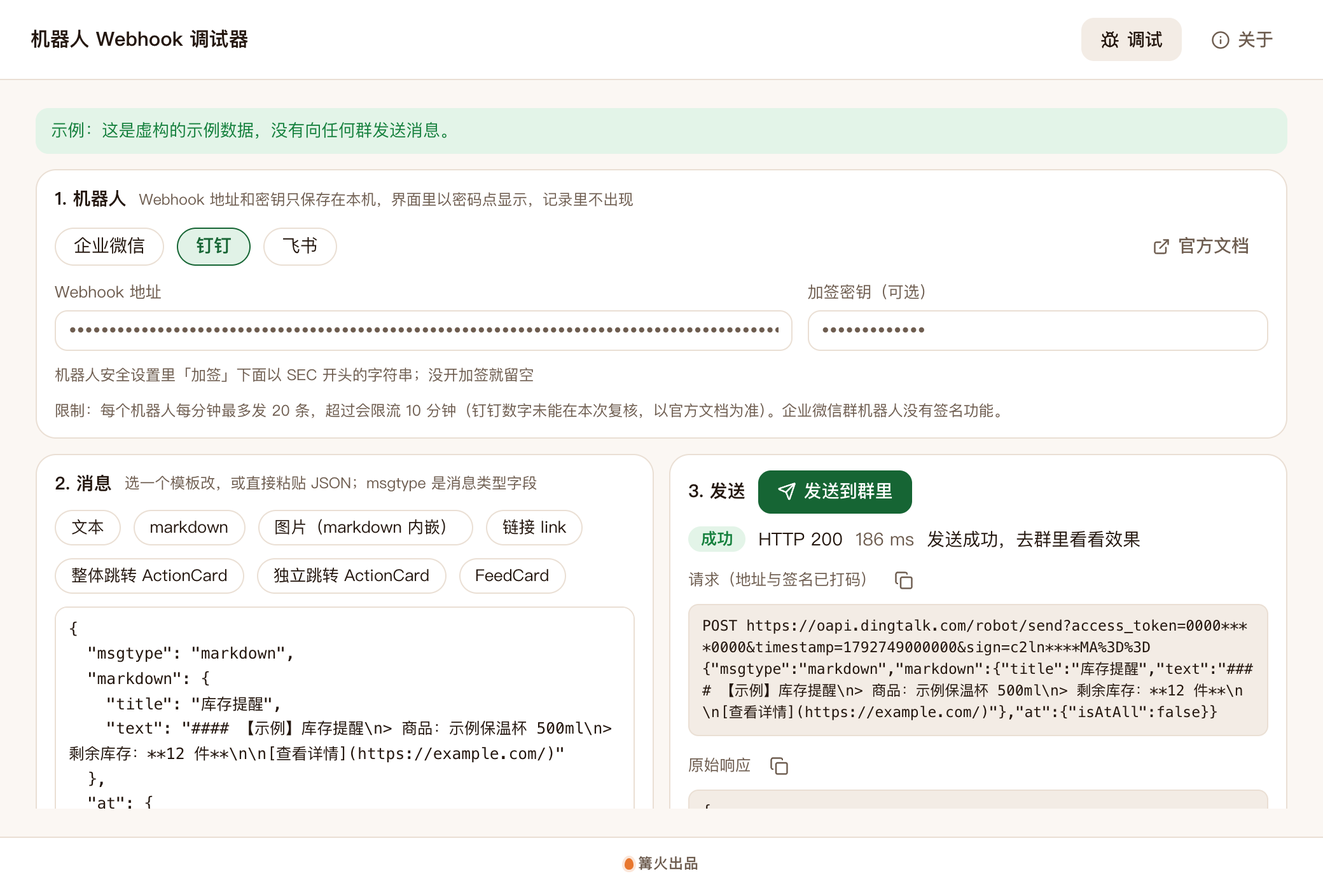
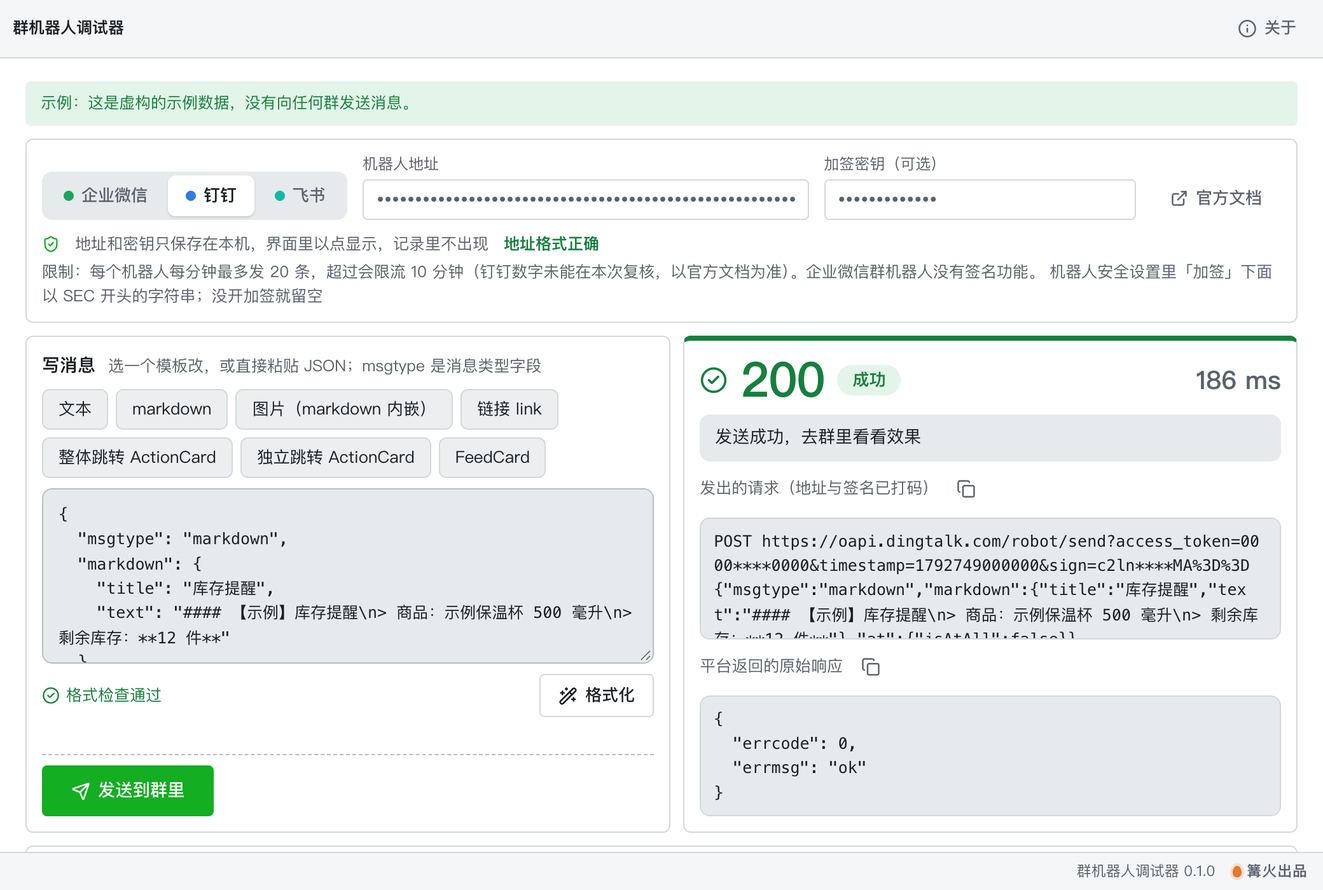
打磨 w17：收发对照台界面，全中文，升 0.2.0

diff --git a/src/tool/Main.tsx b/src/tool/Main.tsx
@@ -1,6 +1,6 @@
-// 机器人 Webhook 调试器：选平台 → 填地址 → 写消息（模板 / JSON）→ 校验 → 发送 → 看原始响应与中文解释。
+// 群机器人调试器：选平台 → 填地址 → 写消息（模板 / JSON）→ 校验 → 发送 → 看原始响应与中文解释。
 import { useEffect, useMemo, useState } from 'react';
-import { ExternalLink, FileImage, Loader2, Send, Wand2 } from 'lucide-react';
+import { ArrowRight, CheckCircle2, ExternalLink, FileImage, Loader2, Send, ShieldCheck, Wand2, XCircle } from 'lucide-react';
 import type { RunContext } from '../kit/types';
 import { httpFetch, openLink, pickFiles, settingsStore } from '../kit/platform';
 import { CopyButton } from '../kit/parts';
@@ -117,96 +117,111 @@ export function Main({ ctx }: { ctx: Ctx }) {
   const canSend = prep.ok && !!urlCheck?.ok && !busy;
   const rate = rateWarning(history, platform, Date.now());
 
+  const verdict = result ? (result.explain.ok ? 'ok' : 'err') : null;
+  const hint = !urlCheck ? '先填机器人地址' : !urlCheck.ok ? '地址格式不对，见上方提示' : '消息格式有错，见下方提示';
+
   return (
     <div className="wd-root">
       {notice && <div className={`k-notice ${notice.kind}`} role="status">{notice.text}</div>}
 
-      <section className="k-panel wd-card">
-        <div className="wd-hd"><b>1. 机器人</b><span className="k-help">Webhook 地址和密钥只保存在本机，界面里以密码点显示，记录里不出现</span></div>
-        <div className="wd-row">
-          {PLATFORMS.map((p) => <button key={p.id} className={`wd-tab ${p.id === platform ? 'on' : ''}`} onClick={() => changePlatform(p.id)}>{p.short}</button>)}
-          <span className="wd-grow" />
-          <button className="k-btn ghost" onClick={() => void openLink(pf.doc)}><ExternalLink size={14} />官方文档</button>
+      <header className="wd-bar">
+        <div className="wd-seg" role="tablist" aria-label="选择平台">
+          {PLATFORMS.map((p) => <button key={p.id} role="tab" aria-selected={p.id === platform} className={`wd-tab ${p.id === platform ? 'on' : ''}`} onClick={() => changePlatform(p.id)}><i className={`wd-dot ${p.id}`} />{p.short}</button>)}
         </div>
-        <div className="wd-two">
-        <label className="wd-field">Webhook 地址
-          <input className="k-input" type="password" autoComplete="off" aria-label="Webhook 地址" value={url} placeholder={pf.example} onChange={(e) => setUrl(e.target.value)} />
+        <label className="wd-field wd-url">机器人地址
+          <input className="k-input" type="password" autoComplete="off" aria-label="机器人地址" value={url} placeholder={pf.example} onChange={(e) => setUrl(e.target.value)} />
         </label>
         {pf.signLabel && (
-          <label className="wd-field">{pf.signLabel}（可选）
+          <label className="wd-field wd-sec">{pf.signLabel}（可选）
             <input className="k-input" type="password" autoComplete="off" aria-label={pf.signLabel} value={secret} placeholder="没开加签就留空" onChange={(e) => setSecret(e.target.value)} />
           </label>
         )}
+        <button className="k-btn ghost" onClick={() => void openLink(pf.doc)}><ExternalLink size={14} />官方文档</button>
+        <div className="wd-note">
+          <ShieldCheck size={14} />
+          <span>地址和密钥只保存在本机，界面里以点显示，记录里不出现</span>
+          {urlCheck && !urlCheck.ok && <b className="wd-bad">{urlCheck.error}</b>}
+          {urlCheck?.ok && <b className="wd-good">地址格式正确</b>}
+          <span className="wd-lim">限制：{pf.rate}{platform === 'dingtalk' ? '（钉钉数字未能在本次复核，以官方文档为准）' : ''}。企业微信群机器人没有签名功能。{pf.signHelp ? ` ${pf.signHelp}` : ''}</span>
         </div>
-        {urlCheck && !urlCheck.ok && <span className="wd-bad">{urlCheck.error}</span>}
-        {pf.signHelp && <span className="k-help">{pf.signHelp}</span>}
-        <span className="k-help">限制：{pf.rate}{platform === 'dingtalk' ? '（钉钉数字未能在本次复核，以官方文档为准）' : ''}。企业微信群机器人没有签名功能。</span>
-      </section>
+      </header>
 
       <div className="wd-main">
-      <section className="k-panel wd-card">
-        <div className="wd-hd"><b>2. 消息</b><span className="k-help">选一个模板改，或直接粘贴 JSON；{pf.typeKey} 是消息类型字段</span></div>
-        <div className="wd-row">
-          {tpls.map((t) => <button key={t.id} className={`wd-chip ${t.id === tpl ? 'on' : ''}`} onClick={() => pickTpl(t.id)} title={KIND_LABEL[t.kind]}>{t.label}</button>)}
-        </div>
-        {curTpl?.note && <span className="k-help">{curTpl.note}</span>}
-        <textarea className="k-input k-textarea wd-json" aria-label="消息 JSON" spellCheck={false} rows={8} value={text} onChange={(e) => { setText(e.target.value); setConfirm(false); }} />
-        <div className="wd-row">
-          <button className="k-btn" onClick={format} disabled={!prep.ok && !prep.issues.length}><Wand2 size={15} />格式化</button>
-          {platform === 'wecom' && <button className="k-btn" onClick={() => void chooseImage()}><FileImage size={15} />选图片（自动算 base64 和 md5）</button>}
-          {!prep.ok && prep.syntax && <span className="wd-bad">JSON 第 {prep.line} 行第 {prep.col} 列：{prep.syntax}</span>}
-          {prep.ok && !warns.length && <span className="wd-good">格式检查通过</span>}
-        </div>
-        {errors.map((i, k) => <div key={'e' + k} className="wd-bad">{i.path ? `${i.path}：` : ''}{i.message}</div>)}
-        {warns.map((i, k) => <div key={'w' + k} className="wd-warn">{i.path ? `${i.path}：` : ''}{i.message}</div>)}
-      </section>
-
-      <section className="k-panel wd-card">
-        <div className="wd-hd"><b>3. 发送</b>
-          {!confirm && <button className="k-btn primary" disabled={!canSend} onClick={() => setConfirm(true)}>{busy ? <Loader2 size={15} className="k-spin" /> : <Send size={15} />}发送到群里</button>}
-          {confirm && (
-            <span className="wd-confirm">真的会向{pf.short}群发出一条消息。
-              <button className="k-btn" onClick={() => setConfirm(false)}>取消</button>
-              <button className="k-btn primary" onClick={() => void doSend()}>确认发送</button>
-            </span>
-          )}
-          {rate && <span className="wd-warn">{rate}</span>}
-        </div>
-        {!canSend && !busy && <span className="k-help">{!urlCheck ? '先填 Webhook 地址' : !urlCheck.ok ? '地址格式不对，见上方提示' : '消息格式有错，见上方提示'}</span>}
-        {result && (
-          <div className="wd-result">
-            <div className="wd-row">
-              <span className={`wd-badge ${result.explain.ok ? 'ok' : 'err'}`}>{result.explain.ok ? '成功' : '失败'}</span>
-              {result.status !== undefined && <span className="k-num">HTTP {result.status}</span>}
-              <span className="k-num k-muted">{result.ms} ms</span>
-              <span className="wd-hint">{result.explain.hint}</span>
-            </div>
-            <div className="wd-cols">
-              <div><div className="wd-sub">请求（地址与签名已打码）<CopyButton text={`POST ${result.shownUrl}\n${result.requestBody}`} /></div>
-                <pre className="wd-pre">POST {result.shownUrl}{'\n'}{result.requestBody}</pre></div>
-              <div><div className="wd-sub">原始响应<CopyButton text={prettyResponse(result.responseText)} /></div>
-                <pre className="wd-pre">{result.networkError ? `（网络层失败）${result.networkError}` : prettyResponse(result.responseText) || '（空）'}</pre></div>
-            </div>
+        <section className="wd-pane wd-compose" aria-label="写消息">
+          <div className="wd-ph"><b>写消息</b><span className="wd-sub">选一个模板改，或直接粘贴 JSON；{pf.typeKey} 是消息类型字段</span></div>
+          <div className="wd-chips">
+            {tpls.map((t) => <button key={t.id} className={`wd-chip ${t.id === tpl ? 'on' : ''}`} onClick={() => pickTpl(t.id)} title={KIND_LABEL[t.kind]}>{t.label}</button>)}
           </div>
-        )}
-      </section>
+          {curTpl?.note && <span className="wd-sub">{curTpl.note}</span>}
+          <textarea className="wd-json" aria-label="消息 JSON" spellCheck={false} rows={6} value={text} onChange={(e) => { setText(e.target.value); setConfirm(false); }} />
+          <div className="wd-check">
+            {!prep.ok && prep.syntax ? <span className="wd-bad"><XCircle size={14} />JSON 第 {prep.line} 行第 {prep.col} 列：{prep.syntax}</span>
+              : prep.ok && !warns.length ? <span className="wd-good"><CheckCircle2 size={14} />格式检查通过</span>
+              : <span className="wd-sub">{errors.length} 处错误，{warns.length} 处提醒</span>}
+            <span className="wd-grow" />
+            <button className="k-btn" onClick={format} disabled={!prep.ok && !prep.issues.length}><Wand2 size={15} />格式化</button>
+            {platform === 'wecom' && <button className="k-btn" onClick={() => void chooseImage()}><FileImage size={15} />选图片（自动算 base64 和 md5）</button>}
+          </div>
+          {errors.map((i, k) => <div key={'e' + k} className="wd-issue err">{i.path ? `${i.path}：` : ''}{i.message}</div>)}
+          {warns.map((i, k) => <div key={'w' + k} className="wd-issue warn">{i.path ? `${i.path}：` : ''}{i.message}</div>)}
+          <div className="wd-send">
+            {!confirm && <button className="k-btn primary big" disabled={!canSend} onClick={() => setConfirm(true)}>{busy ? <Loader2 size={15} className="k-spin" /> : <Send size={15} />}发送到群里</button>}
+            {confirm && (
+              <span className="wd-confirm">真的会向{pf.short}群发出一条消息。
+                <button className="k-btn" onClick={() => setConfirm(false)}>取消</button>
+                <button className="k-btn primary" onClick={() => void doSend()}>确认发送</button>
+              </span>
+            )}
+            {!canSend && !busy && <span className="wd-sub">{hint}</span>}
+            {rate && <span className="wd-warn">{rate}</span>}
+          </div>
+        </section>
 
+        <section className={`wd-pane wd-wire ${verdict ?? ''}`} aria-label="往返结果">
+          {!result ? (
+            <div className="wd-idle">
+              <div className="wd-flow" aria-hidden="true">
+                <span className="wd-node">本机</span><ArrowRight size={16} /><span className="wd-node">{pf.short}机器人</span><ArrowRight size={16} /><span className="wd-node">群里</span>
+              </div>
+              <b>发出后在这里看往返</b>
+              <span className="wd-sub">实际请求（地址和签名已打码）、状态码、耗时、平台原始响应，以及用中文解释的返回码含义</span>
+            </div>
+          ) : (
+            <>
+              <div className="wd-verdict">
+                <div className="wd-stamp">
+                  {result.explain.ok ? <CheckCircle2 size={22} /> : <XCircle size={22} />}
+                  <span className="wd-big k-num">{result.status ?? '无响应'}</span>
+                  <span className="wd-badge">{result.explain.ok ? '成功' : '失败'}</span>
+                </div>
+                <span className="k-num wd-ms">{result.ms} ms</span>
+              </div>
+              <p className="wd-hint">{result.explain.hint}</p>
+              <div className="wd-sub2">发出的请求（地址与签名已打码）<CopyButton text={`POST ${result.shownUrl}\n${result.requestBody}`} /></div>
+              <pre className="wd-pre">POST {result.shownUrl}{'\n'}{result.requestBody}</pre>
+              <div className="wd-sub2">平台返回的原始响应<CopyButton text={prettyResponse(result.responseText)} /></div>
+              <pre className="wd-pre">{result.networkError ? `（网络层失败）${result.networkError}` : prettyResponse(result.responseText) || '（空）'}</pre>
+            </>
+          )}
+        </section>
       </div>
 
       {history.length > 0 && (
-        <section className="k-panel wd-card">
-          <div className="wd-hd"><b>发送记录</b><span className="k-help">只记时间、平台、类型和结果，不记地址、密钥和消息内容</span></div>
-          <div className="k-scroll wd-hist">
-            <table className="k-table">
-              <thead><tr><th>时间</th><th>平台</th><th>类型</th><th>HTTP</th><th>耗时</th><th>结果</th></tr></thead>
-              <tbody>
-                {history.map((h, i) => (
-                  <tr key={i}><td className="k-num">{fmt(h.at)}</td><td>{platformOf(h.platform).short}</td><td>{h.type}</td><td className="k-num">{h.status ?? '—'}</td><td className="k-num">{h.ms} ms</td>
-                    <td><span className={h.ok ? 'wd-good' : 'wd-bad'}>{h.summary}</span></td></tr>
-                ))}
-              </tbody>
-            </table>
-          </div>
+        <section className="wd-log" aria-label="发送记录">
+          <div className="wd-ph"><b>发送记录</b><span className="wd-sub">只记时间、平台、类型和结果，不记地址、密钥和消息内容</span></div>
+          <ol className="wd-hist">
+            {history.map((h, i) => (
+              <li key={i} className={h.ok ? 'ok' : 'err'}>
+                <i className={`wd-dot ${h.platform}`} />
+                <span className="k-num">{fmt(h.at)}</span>
+                <b>{platformOf(h.platform).short}</b>
+                <span>{h.type}</span>
+                <span className="k-num">{h.status ?? '—'}</span>
+                <span className="k-num wd-sub">{h.ms} ms</span>
+                <span className={h.ok ? 'wd-good' : 'wd-bad'}>{h.summary}</span>
+              </li>
+            ))}
+          </ol>
         </section>
       )}
     </div>

diff --git a/src/tool/tool.css b/src/tool/tool.css
@@ -1,30 +1,59 @@
-/* 机器人 Webhook 调试器：只用 kit.css 的变量，类名以 wd- 开头 */
-.wd-root { flex: 1; min-height: 0; overflow: auto; display: flex; flex-direction: column; gap: 12px; }
+/* 群机器人调试器：只用 kit.css 的变量，类名以 wd- 开头。收发对照：左边写、右边看往返 */
+.wd-root { flex: 1; min-height: 0; overflow: auto; display: flex; flex-direction: column; gap: 10px; font-size: 13px; }
 .wd-root > * { flex: none; }
-.wd-card { padding: 12px 14px; display: grid; gap: 10px; }
-.wd-hd, .wd-row { display: flex; align-items: center; gap: 10px; flex-wrap: wrap; }
+.wd-bar { display: flex; flex-wrap: wrap; align-items: flex-end; gap: 10px 12px; padding: 10px 12px; border: 1px solid var(--line); border-radius: var(--radius-lg); background: var(--surface); }
+.wd-seg { display: inline-flex; padding: 3px; border-radius: 8px; background: var(--chip); gap: 2px; }
+.wd-tab { display: inline-flex; align-items: center; gap: 6px; height: 32px; padding: 0 14px; border: 0; border-radius: 6px; background: transparent; color: var(--muted); font-weight: 500; cursor: pointer; transition: background .15s, color .15s; }
+.wd-tab:hover { color: var(--ink); }
+.wd-tab.on { background: var(--surface); color: var(--ink); font-weight: 700; box-shadow: 0 1px 2px rgb(0 0 0 / .14); }
+.wd-dot { width: 8px; height: 8px; border-radius: 50%; flex: none; background: var(--muted); }
+.wd-dot.wecom { background: #1FA35C; } .wd-dot.dingtalk { background: #2F7DE1; } .wd-dot.feishu { background: #14B8A6; }
+.wd-field { display: grid; gap: 3px; color: var(--muted); font-size: 12px; flex: 1 1 200px; min-width: 0; }
+.wd-url { flex: 2 1 260px; }
+.wd-note { flex: 1 0 100%; display: flex; flex-wrap: wrap; align-items: center; gap: 4px 12px; color: var(--muted); font-size: 12.5px; }
+.wd-note svg { color: var(--primary); }
+.wd-lim { flex: 1 0 100%; }
+.wd-main { display: grid; grid-template-columns: minmax(0, 1.05fr) minmax(0, 1fr); gap: 10px; align-items: stretch; }
+.wd-pane { min-width: 0; display: flex; flex-direction: column; gap: 8px; padding: 12px; border: 1px solid var(--line); border-radius: var(--radius-lg); background: var(--surface); }
+.wd-ph { display: flex; align-items: baseline; flex-wrap: wrap; gap: 4px 10px; }
+.wd-ph b { font-size: 14px; }
+.wd-sub { color: var(--muted); font-size: 12.5px; }
+.wd-chips { display: flex; flex-wrap: wrap; gap: 6px; }
+.wd-chip { height: 32px; padding: 0 12px; border: 1px solid var(--line); border-radius: 6px; background: var(--bg); cursor: pointer; transition: background .15s, border-color .15s; }
+.wd-chip:hover { border-color: var(--line-strong); }
+.wd-chip.on { background: var(--primary-soft); border-color: var(--primary); color: var(--primary); font-weight: 600; }
+.wd-json, .wd-pre { font-family: ui-monospace, SFMono-Regular, Menlo, Consolas, monospace; font-size: 12.5px; line-height: 1.55; }
+.wd-json { width: 100%; min-height: 120px; resize: vertical; padding: 10px 12px; border: 1px solid var(--line-strong); border-radius: 8px; background: var(--chip); color: var(--ink); box-sizing: border-box; }
+.wd-json:focus-visible { outline: 2px solid var(--primary); outline-offset: 1px; }
+.wd-check { display: flex; align-items: center; flex-wrap: wrap; gap: 8px; }
 .wd-grow { flex: 1; }
-.wd-field { display: grid; gap: 4px; color: var(--muted); font-size: .9em; }
-.wd-tab, .wd-chip { height: 30px; padding: 0 14px; border: 1px solid var(--line); border-radius: 999px; background: var(--surface); cursor: pointer; }
-.wd-chip { height: 28px; padding: 0 12px; font-size: .92em; }
-.wd-tab.on, .wd-chip.on { background: var(--primary-soft); border-color: var(--primary); color: var(--primary); font-weight: 600; }
-.wd-json { font-family: ui-monospace, SFMono-Regular, Menlo, Consolas, monospace; font-size: .88em; min-height: 150px; }
-.wd-bad { color: var(--err); font-size: .9em; }
-.wd-warn { color: var(--warn); font-size: .9em; }
-.wd-good { color: var(--ok); font-size: .9em; }
-.wd-confirm { display: inline-flex; align-items: center; gap: 10px; flex-wrap: wrap; color: var(--warn); font-weight: 500; }
-.wd-badge { padding: 1px 10px; border-radius: 999px; font-size: .9em; font-weight: 600; }
-.wd-badge.ok { background: var(--ok-soft); color: var(--ok); }
-.wd-badge.err { background: var(--err-soft); color: var(--err); }
-.wd-hint { flex: 1; min-width: 200px; }
-.wd-result { display: grid; gap: 8px; }
-.wd-cols { display: grid; grid-template-columns: repeat(auto-fit, minmax(300px, 1fr)); gap: 10px; }
-.wd-sub { display: flex; align-items: center; gap: 8px; color: var(--muted); font-size: .88em; margin-bottom: 4px; }
-.wd-pre { margin: 0; padding: 8px 10px; border: 1px solid var(--line); border-radius: 8px; background: var(--chip); font-family: ui-monospace, SFMono-Regular, Menlo, Consolas, monospace; font-size: .82em; white-space: pre-wrap; word-break: break-all; max-height: 200px; overflow: auto; }
-.wd-hist { max-height: 220px; }
-.wd-hist td { white-space: normal; }
-.wd-two { display: grid; grid-template-columns: 1.6fr 1fr; gap: 12px; align-items: start; }
-.wd-main { display: grid; grid-template-columns: minmax(0, 1fr) minmax(0, 1fr); gap: 12px; align-items: start; }
-.wd-main > section { min-width: 0; }
-.wd-cols { grid-template-columns: 1fr !important; }
-@media (max-width: 860px) { .wd-two, .wd-main { grid-template-columns: 1fr; } }
+.wd-bad, .wd-good, .wd-warn { display: inline-flex; align-items: center; gap: 5px; font-size: 12.5px; }
+.wd-bad { color: var(--err); } .wd-warn { color: var(--warn); } .wd-good { color: var(--ok); }
+.wd-issue { padding: 6px 10px; border-radius: 6px; border-left: 3px solid; font-size: 12.5px; }
+.wd-issue.err { background: var(--err-soft); border-color: var(--err); color: var(--err); }
+.wd-issue.warn { background: var(--warn-soft); border-color: var(--warn); color: var(--warn); }
+.wd-send { display: flex; align-items: center; flex-wrap: wrap; gap: 10px; margin-top: auto; padding-top: 8px; border-top: 1px dashed var(--line-strong); }
+.wd-confirm { display: inline-flex; align-items: center; gap: 10px; flex-wrap: wrap; color: var(--warn); font-weight: 600; }
+.wd-wire { border-top: 4px solid var(--line-strong); }
+.wd-wire.ok { border-top-color: var(--ok); } .wd-wire.err { border-top-color: var(--err); }
+.wd-idle { flex: 1; display: grid; place-content: center; justify-items: center; gap: 10px; text-align: center; padding: 20px; color: var(--muted); }
+.wd-idle b { color: var(--ink); font-size: 15px; }
+.wd-idle .wd-sub { max-width: 320px; }
+.wd-flow { display: flex; align-items: center; gap: 8px; color: var(--muted); }
+.wd-node { padding: 6px 12px; border: 1px dashed var(--line-strong); border-radius: 8px; color: var(--ink); background: var(--bg); }
+.wd-verdict { display: flex; align-items: center; justify-content: space-between; gap: 10px; }
+.wd-stamp { display: inline-flex; align-items: center; gap: 10px; }
+.wd-big { font-size: 38px; font-weight: 800; line-height: 1; letter-spacing: -.02em; }
+.wd-ok .wd-big { color: var(--ok); }
+.wd-wire.ok .wd-stamp { color: var(--ok); } .wd-wire.err .wd-stamp { color: var(--err); }
+.wd-badge { padding: 2px 12px; border-radius: 999px; font-size: 13px; font-weight: 700; background: var(--chip); }
+.wd-wire.ok .wd-badge { background: var(--ok-soft); } .wd-wire.err .wd-badge { background: var(--err-soft); }
+.wd-ms { font-size: 20px; font-weight: 600; color: var(--muted); }
+.wd-hint { margin: 0; padding: 8px 12px; border-radius: 8px; background: var(--chip); font-size: 13.5px; line-height: 1.55; }
+.wd-sub2 { display: flex; align-items: center; gap: 8px; color: var(--muted); font-size: 12.5px; }
+.wd-pre { margin: 0; padding: 8px 10px; border: 1px solid var(--line); border-radius: 8px; background: var(--chip); white-space: pre-wrap; word-break: break-all; max-height: 96px; overflow: auto; }
+.wd-log { padding: 10px 12px; border: 1px solid var(--line); border-radius: var(--radius-lg); background: var(--surface); display: grid; gap: 6px; }
+.wd-hist { list-style: none; margin: 0; padding: 0; display: grid; gap: 2px; max-height: 180px; overflow: auto; }
+.wd-hist li { display: grid; grid-template-columns: 10px 110px 56px 90px 40px 60px 1fr; align-items: center; gap: 8px; min-height: 32px; padding: 0 8px; border-radius: 6px; }
+.wd-hist li:nth-child(odd) { background: var(--bg); }
+@media (max-width: 860px) { .wd-main { grid-template-columns: 1fr; } .wd-hist li { grid-template-columns: 10px 100px 56px 1fr; } }

diff --git a/src/tool/platforms.ts b/src/tool/platforms.ts
@@ -67,14 +67,14 @@ const SAMPLE_PIC = 'https://example.com/sample.png';
 export const TEMPLATES: Template[] = [
   // ---- 企业微信 ----
   { id: 'wecom-text', platform: 'wecom', kind: 'text', label: '文本', body: { msgtype: 'text', text: { content: '【示例】今日 18:00 前请提交周报。', mentioned_list: ['@all'] } }, note: 'content 最长 2048 字节；mentioned_list 填成员 userid，@all 提醒所有人' },
-  { id: 'wecom-markdown', platform: 'wecom', kind: 'markdown', label: 'markdown', body: { msgtype: 'markdown', markdown: { content: '### 【示例】库存提醒\n> 商品：<font color="warning">示例保温杯 500ml</font>\n> 剩余库存：<font color="comment">12 件</font>\n\n[查看详情](https://example.com/)' } }, note: 'content 最长 4096 字节；字体颜色只支持 info（绿）、comment（灰）、warning（橙红）' },
+  { id: 'wecom-markdown', platform: 'wecom', kind: 'markdown', label: 'markdown', body: { msgtype: 'markdown', markdown: { content: '### 【示例】库存提醒\n> 商品：<font color="warning">示例保温杯 500 毫升</font>\n> 剩余库存：<font color="comment">12 件</font>\n\n[查看详情](https://example.com/)' } }, note: 'content 最长 4096 字节；字体颜色只支持 info（绿）、comment（灰）、warning（橙红）' },
   { id: 'wecom-markdown-v2', platform: 'wecom', kind: 'markdown', label: 'markdown_v2', body: { msgtype: 'markdown_v2', markdown_v2: { content: '# 【示例】周报提醒\n**截止时间**：周五 18:00\n\n- 本周完成\n- 下周计划' } }, note: 'content 最长 4096 字节；不支持字体颜色和 @ 群成员，客户端版本过低会显示为纯文本' },
   { id: 'wecom-image', platform: 'wecom', kind: 'image', label: '图片', body: { msgtype: 'image', image: { base64: '', md5: '' } }, note: '点「选图片」自动填 base64 和 md5；图片编码前不超过 2M，支持 JPG、PNG' },
   { id: 'wecom-news', platform: 'wecom', kind: 'card', label: '图文 news', body: { msgtype: 'news', news: { articles: [{ title: '【示例】十月活动安排', description: '点击查看活动时间和报名方式', url: SAMPLE_URL, picurl: SAMPLE_PIC }] } }, note: '一条消息 1～8 篇图文；title 超过 128 字节、description 超过 512 字节会被截断' },
   { id: 'wecom-card', platform: 'wecom', kind: 'card', label: '模板卡片 文本通知', body: { msgtype: 'template_card', template_card: { card_type: 'text_notice', main_title: { title: '【示例】审批提醒', desc: '你有 3 条待审批' }, card_action: { type: 1, url: SAMPLE_URL } } }, note: 'main_title.title 与 sub_title_text 至少填一个；card_action.type 为 1 跳转链接（填 url）、2 打开小程序（填 appid）' },
   // ---- 钉钉 ----
   { id: 'dingtalk-text', platform: 'dingtalk', kind: 'text', label: '文本', body: { msgtype: 'text', text: { content: '【示例】今日 18:00 前请提交周报。' }, at: { atMobiles: [], atUserIds: [], isAtAll: false } }, note: '要 @ 人时，content 里也要写上 @手机号 或 @userId' },
-  { id: 'dingtalk-markdown', platform: 'dingtalk', kind: 'markdown', label: 'markdown', body: { msgtype: 'markdown', markdown: { title: '库存提醒', text: '#### 【示例】库存提醒\n> 商品：示例保温杯 500ml\n> 剩余库存：**12 件**\n\n[查看详情](https://example.com/)' }, at: { isAtAll: false } }, note: 'title 是会话列表里显示的文字；markdown 只支持部分语法' },
+  { id: 'dingtalk-markdown', platform: 'dingtalk', kind: 'markdown', label: 'markdown', body: { msgtype: 'markdown', markdown: { title: '库存提醒', text: '#### 【示例】库存提醒\n> 商品：示例保温杯 500 毫升\n> 剩余库存：**12 件**' }, at: { isAtAll: false } }, note: 'title 是会话列表里显示的文字；markdown 只支持部分语法' },
   { id: 'dingtalk-image', platform: 'dingtalk', kind: 'image', label: '图片（markdown 内嵌）', body: { msgtype: 'markdown', markdown: { title: '示例图片', text: `#### 【示例】今日海报\n![海报](${SAMPLE_PIC})` } }, note: '钉钉自定义机器人没有单独的图片类型，用 markdown 的 ![](图片地址) 发图（官方建议一条不超过 20 张）' },
   { id: 'dingtalk-link', platform: 'dingtalk', kind: 'card', label: '链接 link', body: { msgtype: 'link', link: { title: '【示例】十月活动安排', text: '点击查看活动时间和报名方式', messageUrl: SAMPLE_URL, picUrl: '' } }, note: 'link 消息不支持 @ 人' },
   { id: 'dingtalk-actioncard', platform: 'dingtalk', kind: 'card', label: '整体跳转 ActionCard', body: { msgtype: 'actionCard', actionCard: { title: '审批提醒', text: '### 【示例】审批提醒\n你有 3 条待审批', btnOrientation: '0', singleTitle: '去处理', singleURL: SAMPLE_URL } } },
@@ -84,7 +84,7 @@ export const TEMPLATES: Template[] = [
   { id: 'feishu-text', platform: 'feishu', kind: 'text', label: '文本', body: { msg_type: 'text', content: { text: '【示例】今日 18:00 前请提交周报。<at user_id="all">所有人</at>' } }, note: '@ 所有人写 <at user_id="all">所有人</at>，群需要开启 @所有人' },
   { id: 'feishu-post', platform: 'feishu', kind: 'markdown', label: '富文本 post', body: { msg_type: 'post', content: { post: { zh_cn: { title: '【示例】项目更新通知', content: [[{ tag: 'text', text: '项目有更新：' }, { tag: 'a', text: '请查看', href: SAMPLE_URL }]] } } } }, note: '飞书自定义机器人没有 markdown 类型，富文本用 post；卡片里可以用 markdown 组件' },
   { id: 'feishu-image', platform: 'feishu', kind: 'image', label: '图片', body: { msg_type: 'image', content: { image_key: 'img_示例_需要先通过上传图片接口获取' } }, note: 'image_key 要先通过飞书「上传图片」接口获取，本工具不负责上传' },
-  { id: 'feishu-card', platform: 'feishu', kind: 'card', label: '卡片 interactive', body: { msg_type: 'interactive', card: { schema: '2.0', header: { title: { tag: 'plain_text', content: '【示例】库存提醒' }, template: 'blue' }, body: { elements: [{ tag: 'markdown', content: '商品：示例保温杯 500ml\n剩余库存：**12 件**' }, { tag: 'button', text: { tag: 'plain_text', content: '查看详情' }, type: 'default', behaviors: [{ type: 'open_url', default_url: SAMPLE_URL }] }] } } }, note: '卡片放在 card 字段（不是 content）；自定义机器人的卡片只支持按钮、文字链跳转链接，不支持回调' },
+  { id: 'feishu-card', platform: 'feishu', kind: 'card', label: '卡片 interactive', body: { msg_type: 'interactive', card: { schema: '2.0', header: { title: { tag: 'plain_text', content: '【示例】库存提醒' }, template: 'blue' }, body: { elements: [{ tag: 'markdown', content: '商品：示例保温杯 500 毫升\n剩余库存：**12 件**' }, { tag: 'button', text: { tag: 'plain_text', content: '查看详情' }, type: 'default', behaviors: [{ type: 'open_url', default_url: SAMPLE_URL }] }] } } }, note: '卡片放在 card 字段（不是 content）；自定义机器人的卡片只支持按钮、文字链跳转链接，不支持回调' },
 ];
 
 export const templatesOf = (p: PlatformId) => TEMPLATES.filter((t) => t.platform === p);
@@ -116,7 +116,7 @@ export function detectPlatform(url: string): PlatformId | null {
 
 export function checkWebhook(p: PlatformId, raw: string): UrlCheck {
   const s = raw.trim();
-  if (!s) return { ok: false, error: '还没有填 Webhook 地址' };
+  if (!s) return { ok: false, error: '还没有填机器人地址' };
   if (/\s/.test(s)) return { ok: false, error: '地址里有空格或换行，复制时可能多带了内容' };
   let u: URL;
   try {
@@ -400,7 +400,7 @@ const WECOM_CODES: Record<number, string> = {
   40058: '不合法的参数：常见原因是请求体不是合法 JSON、参数值或数组个数超出限制、必填参数为空',
   44004: '文本消息的 content 为空',
   45009: '调用超过频率限制，等一会儿再发',
-  93000: 'Webhook 地址不合法，或者这个机器人已经被移出群',
+  93000: '机器人地址不合法，或者这个机器人已经被移出群',
   93004: '机器人被停用',
   93008: '不在群里',
 };

diff --git a/src/tool/index.ts b/src/tool/index.ts
@@ -1,4 +1,4 @@
-// 工具声明：机器人 Webhook 调试器（自定义界面）。请求只发往用户自己填写的企业微信 / 钉钉 / 飞书群机器人地址。
+// 工具声明：群机器人调试器（自定义界面）。请求只发往用户自己填写的企业微信 / 钉钉 / 飞书群机器人地址。
 import { Bug } from 'lucide-react';
 import { createElement } from 'react';
 import type { CustomTool } from '../kit/types';
@@ -6,7 +6,7 @@ import { Main } from './Main';
 
 const tool: CustomTool = {
   id: 'w17',
-  name: '机器人 Webhook 调试器',
+  name: '群机器人调试器',
   tagline: '钉钉、飞书、企微机器人消息统一调试',
   icon: Bug,
   category: '微信私域',

diff --git a/src/tool/preview.ts b/src/tool/preview.ts
@@ -9,7 +9,7 @@ export const params = {};
 
 const body = {
   msgtype: 'markdown',
-  markdown: { title: '库存提醒', text: '#### 【示例】库存提醒\n> 商品：示例保温杯 500ml\n> 剩余库存：**12 件**\n\n[查看详情](https://example.com/)' },
+  markdown: { title: '库存提醒', text: '#### 【示例】库存提醒\n> 商品：示例保温杯 500 毫升\n> 剩余库存：**12 件**' },
   at: { isAtAll: false },
 };
 const shownUrl = maskUrl(`${DEMO_WEBHOOK}&timestamp=1792749000000&sign=${encodeURIComponent('c2lnbi1leGFtcGxlLTAwMDAwMDAwMDAwMA==')}`);

diff --git a/src/tool/jsoncheck.ts b/src/tool/jsoncheck.ts
@@ -96,7 +96,7 @@ function scan(s: string) {
         i += 2;
         continue;
       }
-      if (c < ' ') throw new Fail(i, '字符串里有控制字符（例如 Tab），要写成转义形式 \\t');
+      if (c < ' ') throw new Fail(i, '字符串里有控制字符（例如制表符），要写成转义形式 \\t');
       i++;
     }
     throw new Fail(start, '字符串没有结束，缺少右双引号 "');

diff --git a/README.md b/README.md
@@ -1,4 +1,4 @@
-# 机器人 Webhook 调试器
+# 群机器人调试器
 
 > 篝火出品 · 收录于篝火 App 应用区
 
@@ -22,7 +22,7 @@
 
 ## 怎么用
 
-1. **选平台、填地址**：上方选企业微信 / 钉钉 / 飞书，粘贴机器人的 Webhook 地址。地址格式不对、选错平台会当场提示。钉钉、飞书如果开了「加签」，再填密钥（企业微信群机器人没有签名）。**地址和密钥只保存在本机，界面里以密码点显示，发送记录和报错里不出现。**
+1. **选平台、填地址**：上方选企业微信 / 钉钉 / 飞书，粘贴机器人的 机器人地址。地址格式不对、选错平台会当场提示。钉钉、飞书如果开了「加签」，再填密钥（企业微信群机器人没有签名）。**地址和密钥只保存在本机，界面里以密码点显示，发送记录和报错里不出现。**
 2. **写消息**：点一个模板（文本、markdown、图片、图文、卡片等，共 15 个）改内容，或直接粘贴自己的 JSON。JSON 有语法错会指出第几行第几列；按平台文档检查必填字段、字节长度（企微文本 2048、markdown 4096，飞书请求体 20 KB 等）和常见写错的地方（例如把飞书的 `msg_type` 用在钉钉上）。企业微信图片点「选图片」，自动算好 base64 和 md5。
 3. **发送**：检查通过后点「发送到群里」，再点一次「确认发送」（会真的发到群里）。右侧显示实际请求（地址和签名已打码）、HTTP 状态、耗时、平台原始响应，以及用中文解释的返回码含义。最近一分钟发得多时会提醒接近限流。
 4. **记录**：下方保存最近 50 次发送的时间、平台、类型和结果，不记地址、密钥和消息内容。
@@ -43,7 +43,7 @@
 
 样例在 `samples/`（全部为虚构的「示例」）。没有真实机器人时，用 1～4 即可验证；5 需要你自己的测试群机器人。
 
-1. 切到「企业微信」，Webhook 地址填 `https://example.com/x`：应立即提示「路径不对」或「地址格式是 https://qyapi.weixin.qq.com/…」，「发送到群里」按钮不可点。
+1. 切到「企业微信」，机器人地址填 `https://example.com/x`：应立即提示「路径不对」或「地址格式是 https://qyapi.weixin.qq.com/…」，「发送到群里」按钮不可点。
 2. 切到「企业微信」，把 `samples/企业微信-文本-示例.json` 的内容粘进消息框：应显示「格式检查通过」。再把 `content` 改成 700 个汉字（2100 字节）：应报「content 有 2100 字节，超过上限 2048 字节」。
 3. 切到「飞书」，把 `samples/飞书-请求体格式错误-示例.json` 粘进消息框：应提示 JSON 第 1 行某列语法错误，且发送按钮不可点。
 4. 切到「钉钉」，粘入 `samples/钉钉-选错平台-示例.json`：应提示「钉钉用的是 msgtype，不是 msg_type（是不是选错了平台？）」。

diff --git a/CHANGELOG.md b/CHANGELOG.md
@@ -1,5 +1,12 @@
 # 更新记录
 
+## 0.2.0
+
+- 界面重做为「收发对照台」：左边写消息和发送，右边是大号状态码、耗时、中文解释、实际请求和原始响应；顶部切换平台并填机器人地址；下方是发送记录。
+- 界面和上架文案全部改为中文：「Webhook」统一叫「机器人地址」，工具名改为「群机器人调试器」。
+- 采用专属主色，布局改为紧凑型。
+- 示例消息改为中文示例，功能和检查规则不变。
+
 ## 0.1.0
 
 - 首个版本。
